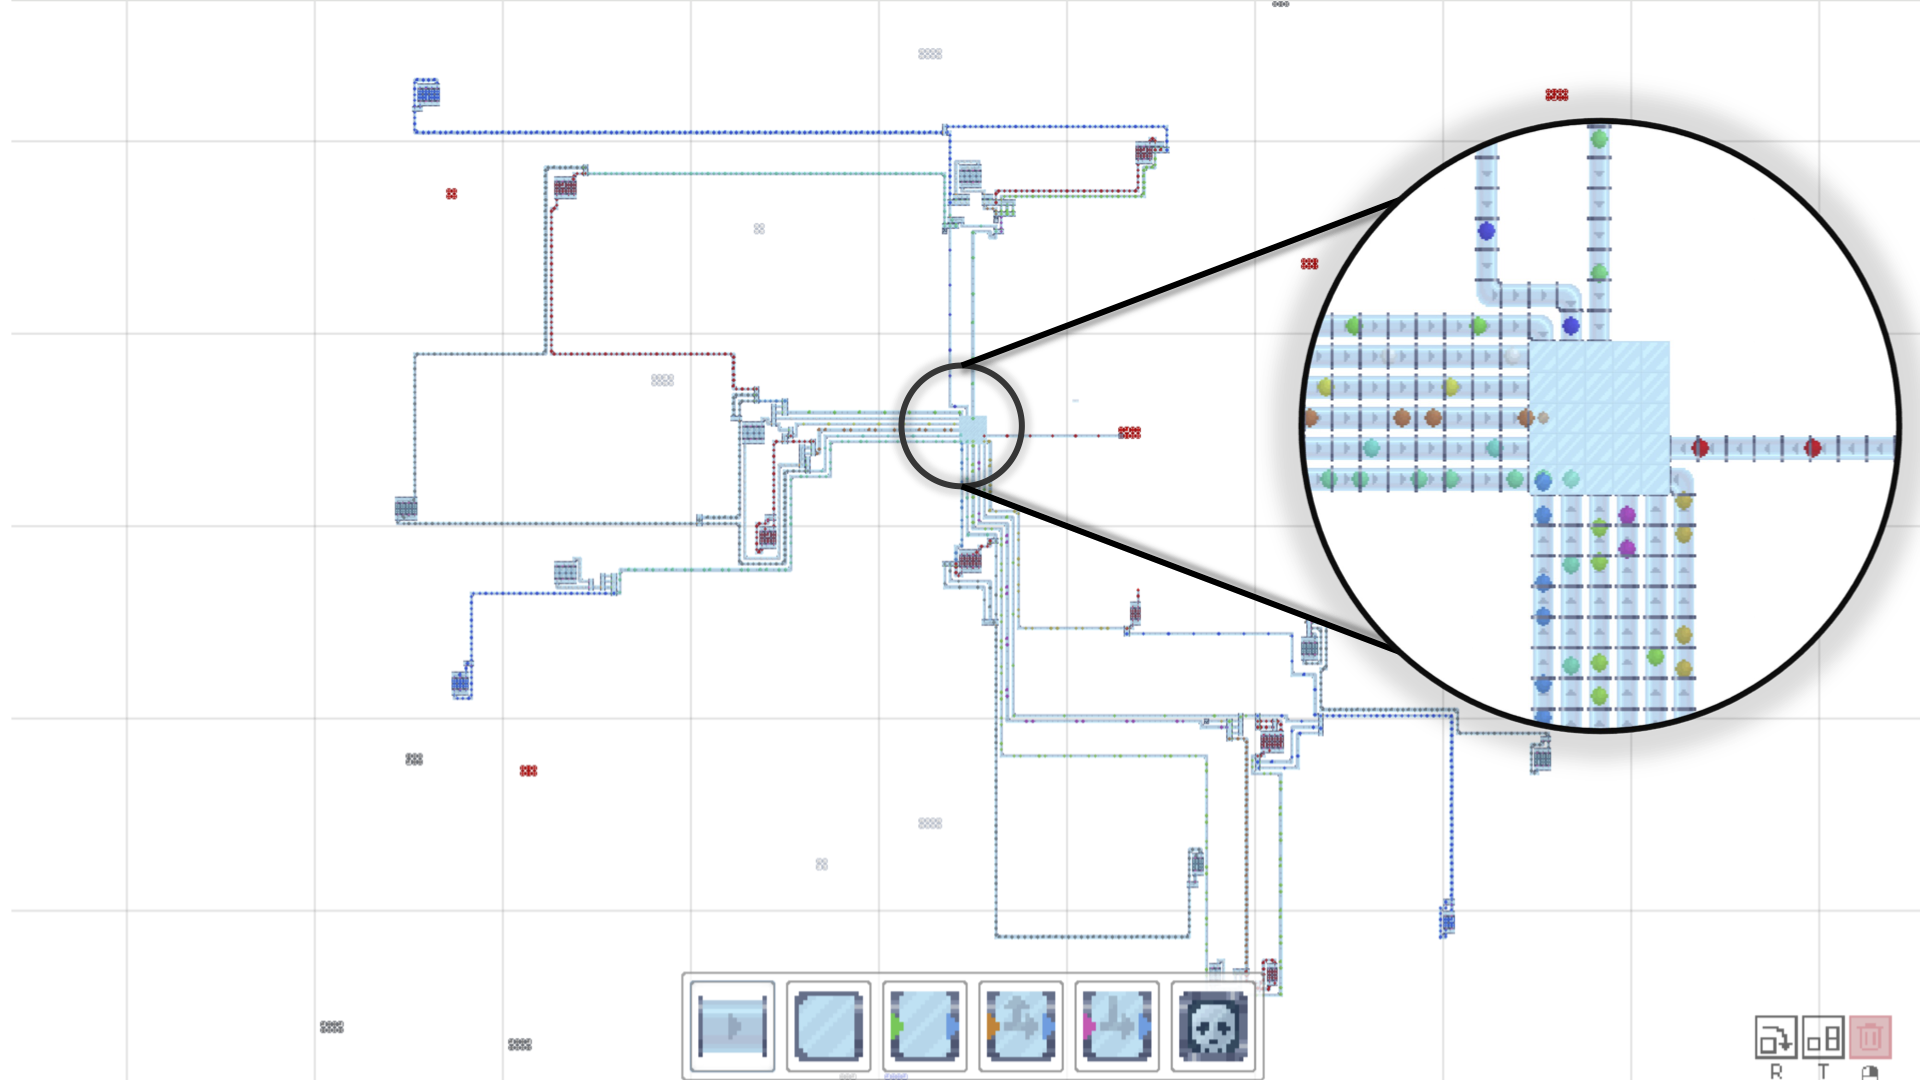
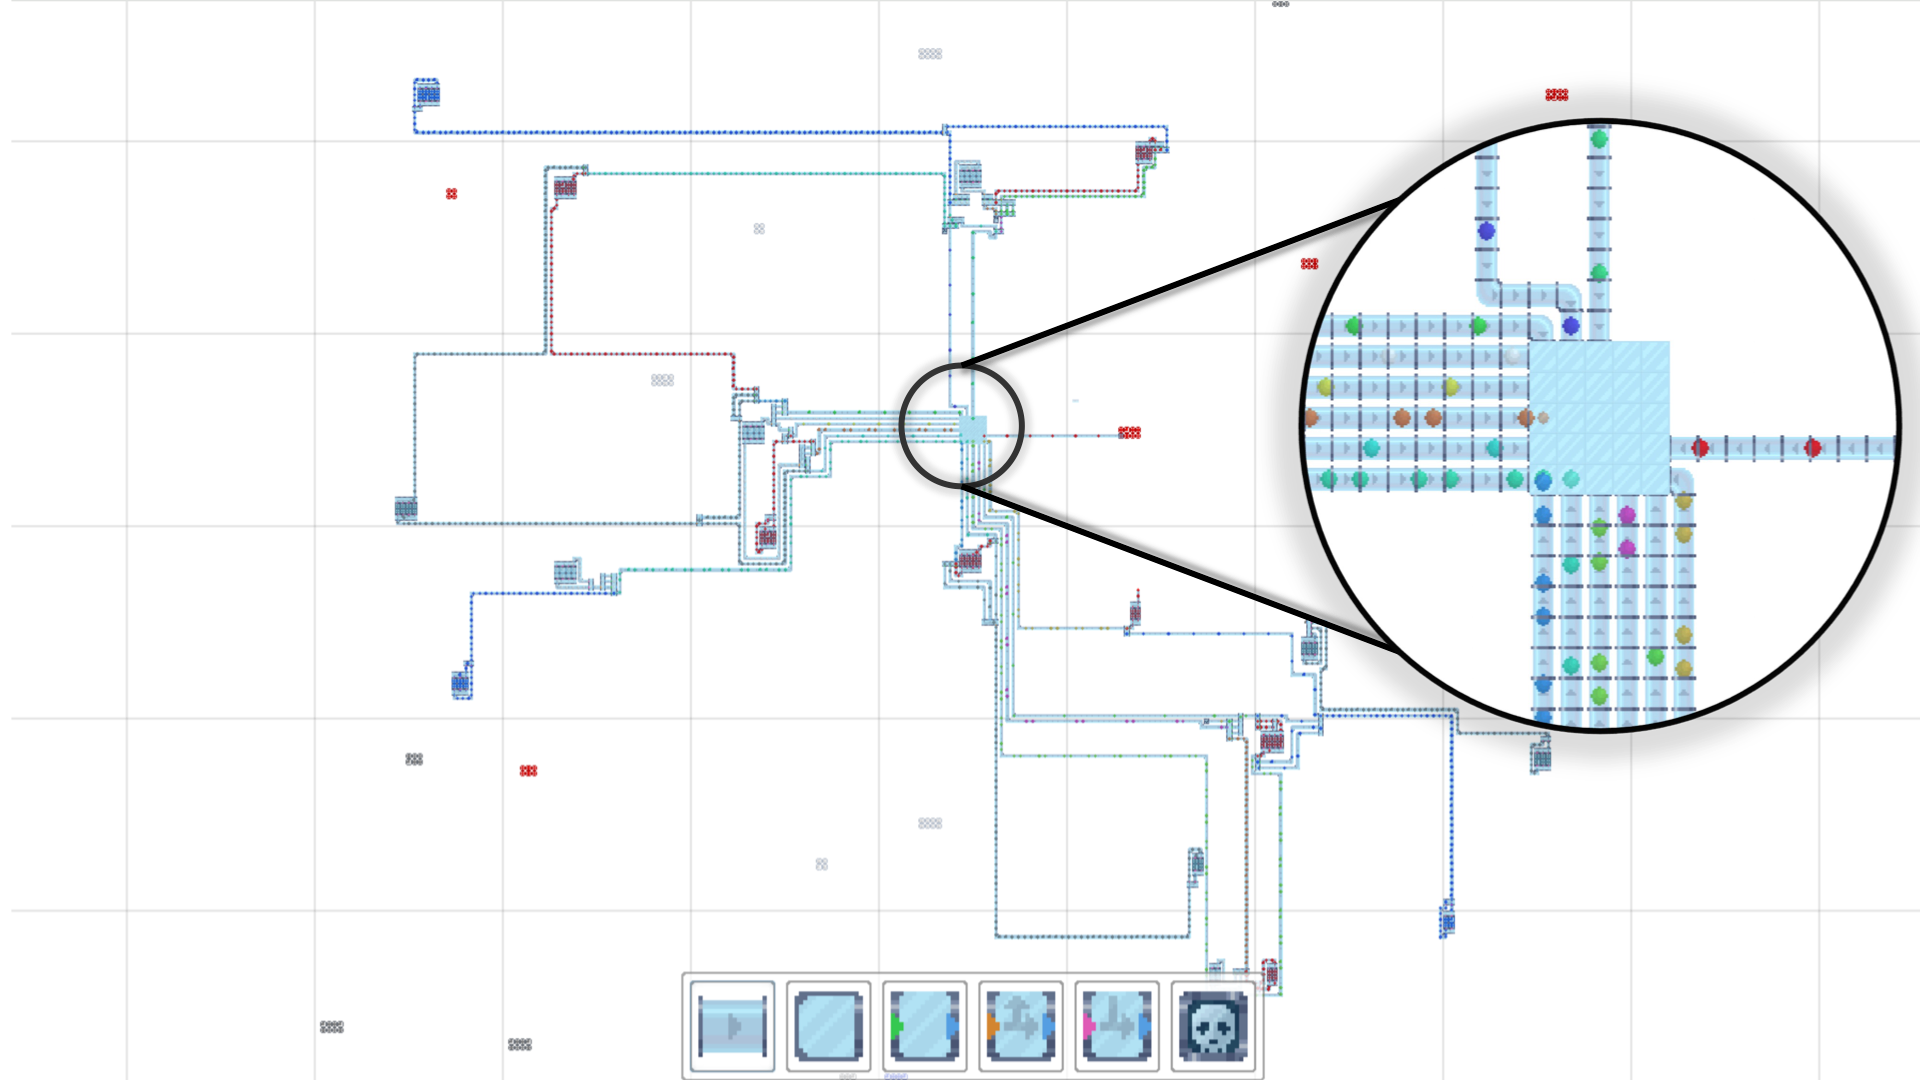
update tutorial

diff --git a/docs/TODO.md b/docs/TODO.md
@@ -2,14 +2,13 @@
 
 ## General
 
-### Bugs
-
-- [ ] merger sometimes only merges one input when many items throughput
-- [ ] reactor with H2+H2+H2+CO gives the same 4 items as output
-
 ### vNext
 
+- [ ] merger sometimes only merges one input when many items throughput (or waiting output items?)
+- [ ] reactor with H2+H2+H2+CO gives the same 4 items as output
+- [ ] use random seed on each game start
 - [ ] reload game on save data clear
+- [ ] support multiple save data
 - [ ] keep tool when canceling operation with esc?
 - [ ] rename merger and splitter. Distributor, Balancer, Divider, Combiner?
 - [ ] use input map for key bindings
@@ -18,14 +17,13 @@
 - [ ] save last camera position in save data
 - [ ] save items in buildings in save data
 - [ ] random seed every new game stored in save data
-- [ ] save/load from/to json save data
+- [ ] save/load from/to json save data (e.g. Ctrl+Shift+S and Ctrl+O)
 - [ ] read atom colors from atoms.csv
 - [ ] developer docs
 - [ ] better csv reading avoiding duplicate code
 - [ ] unlock rings based on levels
 - [ ] remove GetItems in favor of GetInfo?
 - [ ] helper method to determine output position and direction for item in building
-- [ ] refactor building extension methods to a Dictionary<BuildingType, BuildingDefinition>
 - [ ] decide if okay that ItemPath is set in producers when creating and in world when moving -> ev set or return path when consuming item
 - [ ] mirror option for buildings
 - [ ] use state machine for buildings update loop
@@ -39,6 +37,7 @@
 
 ### Done
 
+- [x] refactor building extension methods to a Dictionary<BuildingType, BuildingDefinition>
 - [x] move to other hosting website (GitHub Pages?)
 - [x] add try catch blocks to avoid game crash
 - [x] unlock next task when one single finished
@@ -74,7 +73,8 @@
 
 ### vNext
 
-- [ ] save icon less dark
+- [ ] button with hint for bugs
+- [ ] make buildings inputs/outputs more visible (e.g. with arrows on input/output tiles)
 - [ ] animation with delay on task complete
 - [ ] show message when all tasks completed
 - [ ] improve shortcuts and cheat sheet
@@ -109,6 +109,7 @@
 
 ### Done
 
+- [x] save icon less dark
 - [x] change icon of game
 - [x] display tutorial hints / printscreen
 - [x] blue arrow for extractor output

diff --git a/README.md b/README.md
@@ -11,7 +11,7 @@ The game is available both as a downloadable Windows application and as a web ve
 
 ### Web Page
 
-Open the following url in the browser: `https://merotosc.github.io/Reactistry`
+Open the following url in the browser: <https://merotosc.github.io/Reactistry>
 
 ### Windows Executable
 